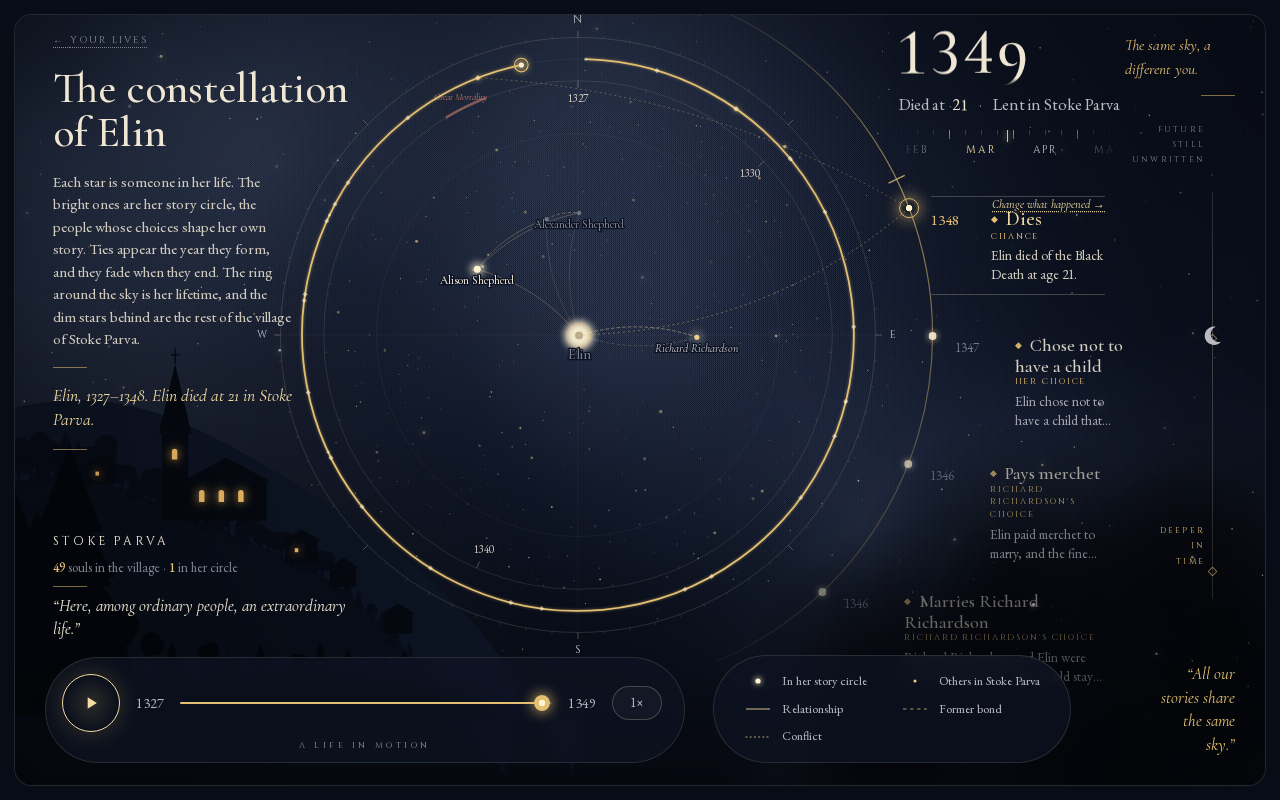
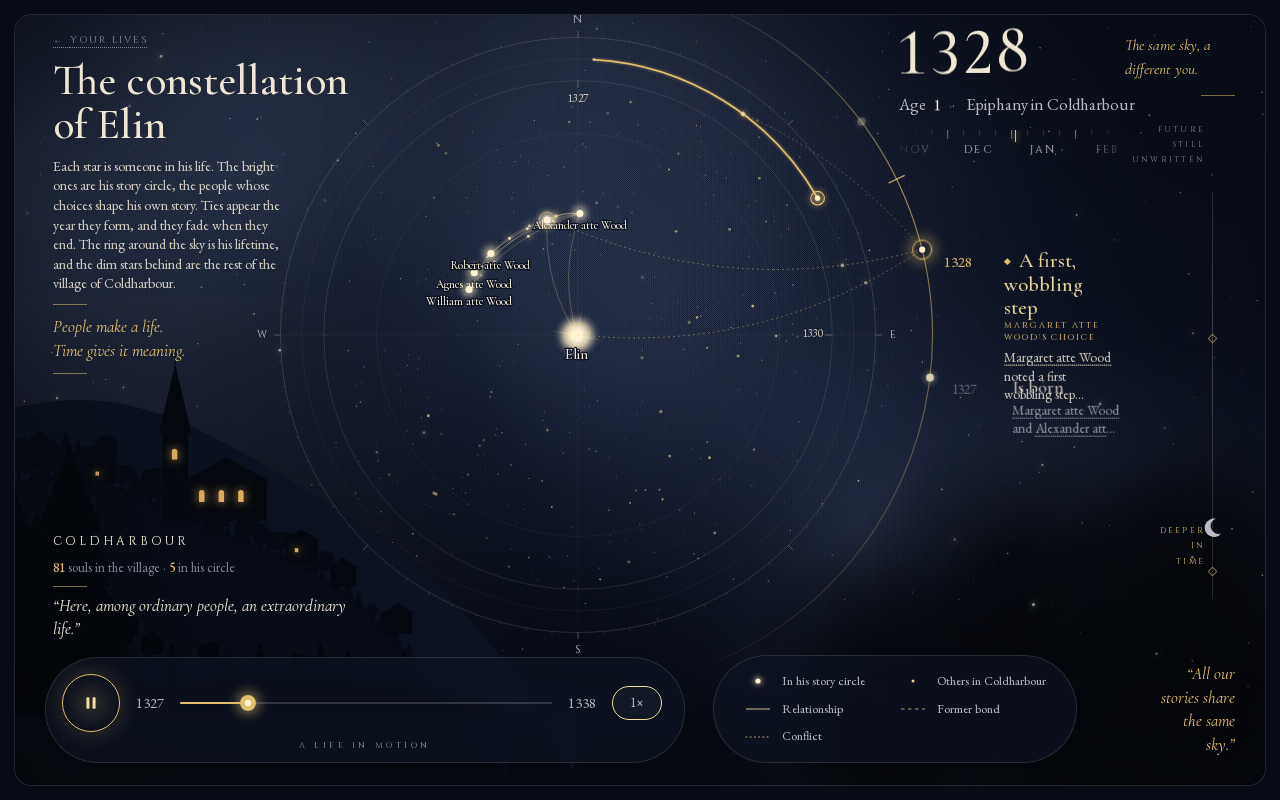
docs: refresh screenshots and what's next

diff --git a/README.md b/README.md
@@ -33,6 +33,8 @@ state through the same key and you get the same draw, every time.
 
 ![Changing a decision: the modal lists the other options, and the life is rewritten live](./docs/screenshots/rewrite.png)
 
+[See the life page on mobile](./docs/screenshots/mobile.png).
+
 ## Run it locally
 
 ```bash
@@ -126,3 +128,6 @@ The design log lives in [`docs/`](./docs), newest first:
 - **The test suite's memory.** `pnpm test` peaks around 5 GB of RAM, which is why it is not run
   on small machines.
 - **A light theme.** The app is dark only, by design.
+- Add a container healthcheck in `deploy/compose.yaml`.
+- Make a blank `TYPESAFE_MODEL` fall back to the Jev default.
+- Add a generic public-host deploy recipe; the current compose is homelab/Traefik-specific.
